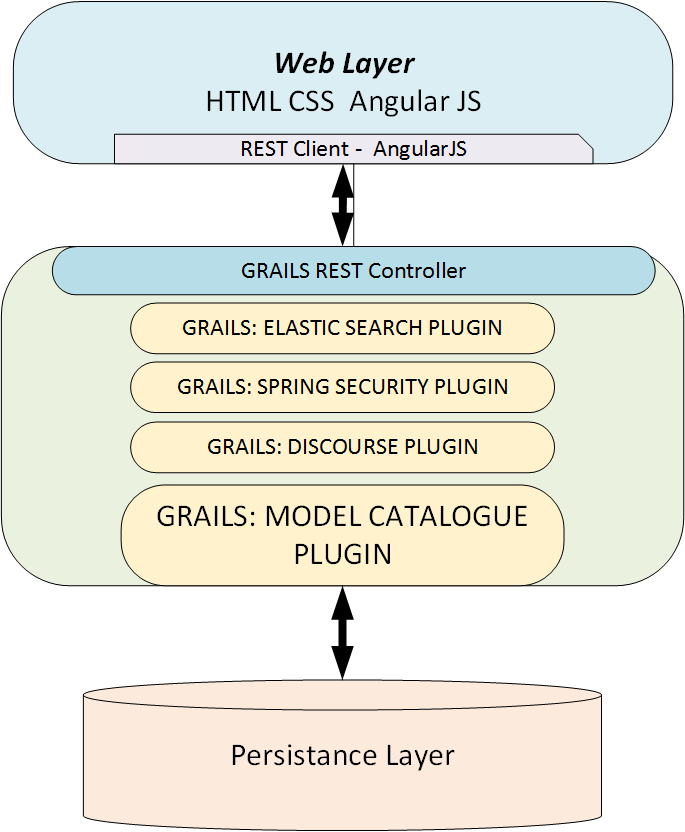
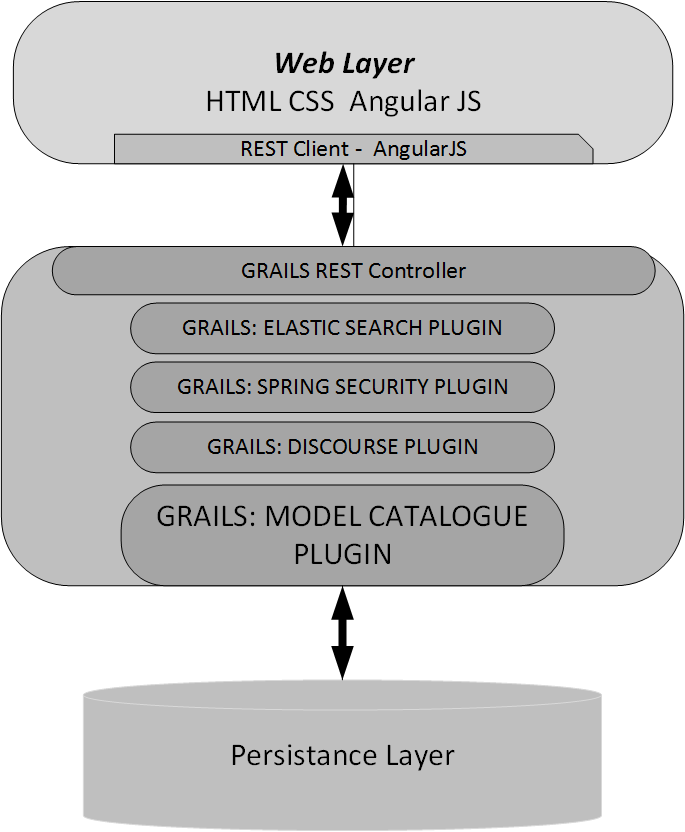
Updates diagrams and trimmed some bib stuff (hopefully not too much)

diff --git a/2Language.tex b/2Language.tex
@@ -139,7 +139,7 @@ The ISO11179 specification illustrates different aspects of the standard using U
 A simplified overview model, without attributes and methods, showing the Ecore model for this DSL is shown in Figure \ref{fig:mcSimplifiedOverview}.
 %%------------REDO-----------------------%%
 \begin{figure}[here]
-	\includegraphics[width=0.5\textwidth,natwidth=610,natheight=642]{ELM_EcoreDiagram}
+	\includegraphics[width=0.5\textwidth,natwidth=610,natheight=642]{MetaModel}
 	\caption{Overview of Metamodel} 
 	\label{fig:mcSimplifiedOverview}
 \end{figure}
